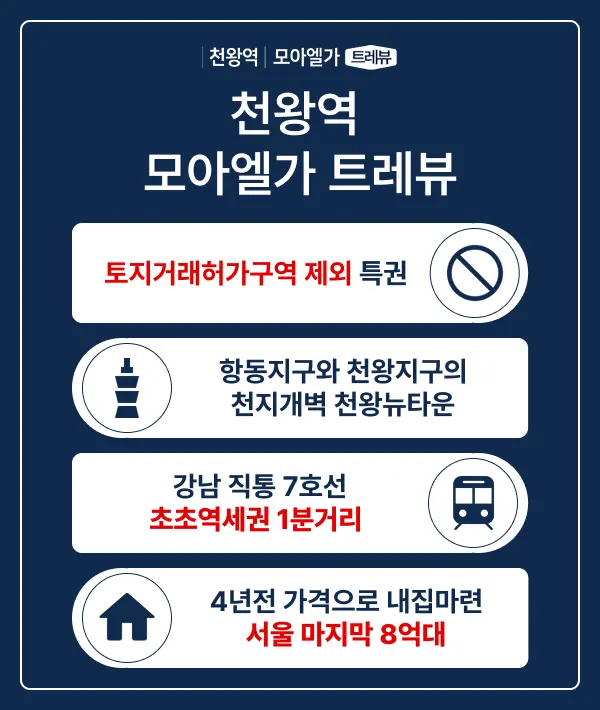
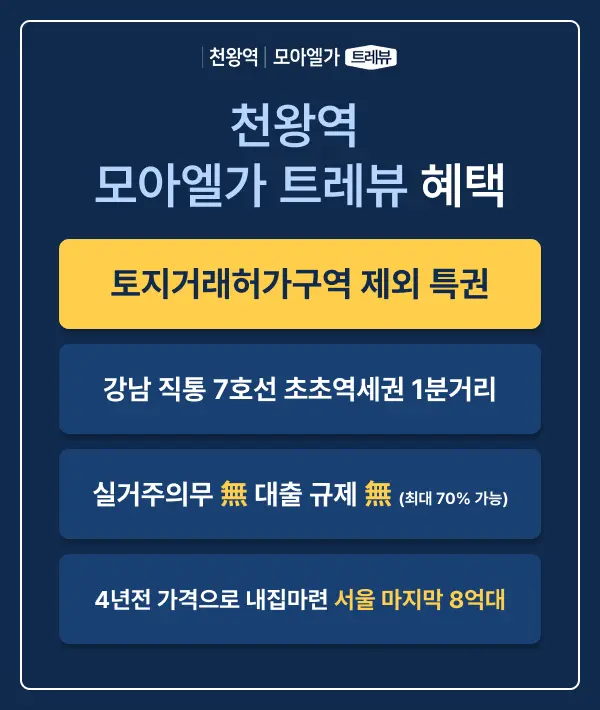
feat: 천왕역 모아엘가 트레뷰 팝업 추가 및 히어로 섹션 수정

diff --git a/mobile-scroll/data/sites/cheonwang-moaelga-treview.js b/mobile-scroll/data/sites/cheonwang-moaelga-treview.js
@@ -20,6 +20,12 @@ const config = {
       image: {
         src: "/apt/cheonwang-moaelga-treview/4.webp",
         alt: "천왕역 모아엘가 트레뷰 팝업",
+        // 이미지 안 "방문예약 하기" 버튼 위치(% 기준) — 클릭하면 남은 팝업(4-1.webp)은
+        // 건너뛰고 상담 신청 섹션(#contact-section)으로 바로 스크롤 이동
+        cta: {
+          target: "#contact-section",
+          rect: { top: "72%", left: "13%", width: "54%", height: "12%" },
+        },
       },
     },
     {
@@ -50,14 +56,14 @@ const config = {
     "17:00 ~ 18:00",
   ],
 
-  hero: {
-    eyebrow:       "토지거래허가 제외｜천왕역 초역세권",
+    hero: {
+    eyebrow:       "토지거래허가구역 제외 특권",
     eyebrowUrgent: 2,
     brand:         "천왕역 모아엘가 트레뷰",
-    title: "토지거래허가 제외 특권\n천왕역 1분 초역세권\n서울 직통 특급 교통망",
-    subtitle:      "토지거래허가 제외 특권",
+    title:         "토지거래허가구역 제외\n서울 마지막 8억대 신축\n항동·천왕 천왕뉴타운\n평당가 대비 압도적 가격",
+    subtitle:      "강남 직통 7호선 초역세권",
     bgColor:       " #233E7A",
-    accentKeyword:  ["토지거래허가 제외", "초역세권", "특급 교통망"],
+    accentKeyword:  ["토지거래허가구역 제외","8억대 신축", "천왕뉴타운", "압도적 가격"],
     image: {
       src:    "/apt/cheonwang-moaelga-treview/1.webp",
       alt:    "천왕역 모아엘가 트레뷰 대표 이미지",

diff --git a/mobile-scroll/components/PopupBanner.jsx b/mobile-scroll/components/PopupBanner.jsx
@@ -62,6 +62,15 @@ export default function PopupBanner({ popup, popupByUtm }) {
     }
   };
 
+  // 이미지 안에 그려진 버튼 위치(cta.rect, % 기준)를 클릭하면 남은 팝업은 건너뛰고
+  // cta.target(예: "#contact-section")으로 바로 스크롤 이동
+  const handleCtaClick = (e) => {
+    e.stopPropagation();
+    setOpen(false);
+    const target = document.querySelector(currentImage.cta.target);
+    target?.scrollIntoView({ behavior: "smooth" });
+  };
+
   return (
     <div className={styles.overlay} onClick={handleClose}>
       <div className={styles.card} onClick={(e) => e.stopPropagation()}>
@@ -78,6 +87,20 @@ export default function PopupBanner({ popup, popupByUtm }) {
           alt={currentImage.alt ?? ""}
           className={styles.img}
         />
+        {currentImage.cta && (
+          <button
+            type="button"
+            className={styles.ctaHotspot}
+            style={{
+              top:    currentImage.cta.rect.top,
+              left:   currentImage.cta.rect.left,
+              width:  currentImage.cta.rect.width,
+              height: currentImage.cta.rect.height,
+            }}
+            onClick={handleCtaClick}
+            aria-label="방문예약 상담 신청 섹션으로 이동"
+          />
+        )}
       </div>
     </div>
   );

diff --git a/mobile-scroll/components/PopupBanner.module.css b/mobile-scroll/components/PopupBanner.module.css
@@ -68,6 +68,16 @@
   background: rgba(0, 0, 0, 0.85);
 }
 
+.ctaHotspot {
+  position: absolute;
+  border: none;
+  background: transparent;
+  padding: 0;
+  cursor: pointer;
+  z-index: 1;
+  -webkit-tap-highlight-color: transparent;
+}
+
 .pageIndicator {
   position: absolute;
   top: 10px;
